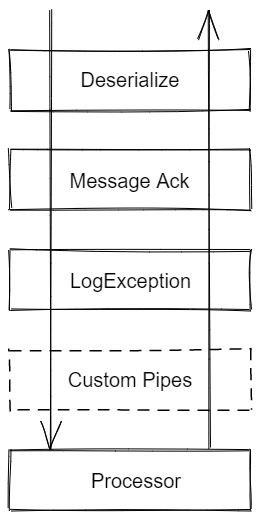
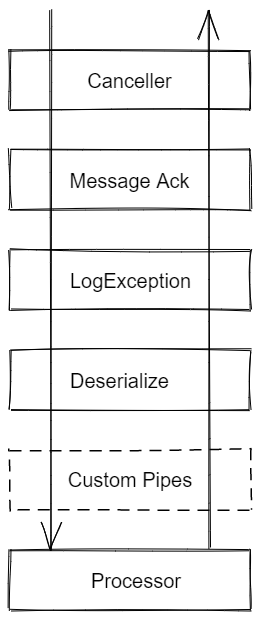
refactor: Rework consumer pipeline for better error handling and avoid it stuck the consumer when deserialization fail

diff --git a/Socolin.RabbitMQ.Client/Options/Consumer/ConsumerOptions.cs b/Socolin.RabbitMQ.Client/Options/Consumer/ConsumerOptions.cs
@@ -22,14 +22,14 @@ namespace Socolin.RabbitMQ.Client.Options.Consumer
 		{
 			var pipeline = new List<IConsumerPipe<T>>
 			{
-				new CancellerConsumerPipe<T>(),
-				new DeserializerConsumerPipe<T>(Deserialization)
+				new CancellerConsumerPipe<T>()
 			};
 
 			if (MessageAcknowledgmentPipeBuilder != null)
 				pipeline.Add(MessageAcknowledgmentPipeBuilder.Build());
 			if (LogDelegate != null)
 				pipeline.Add(new LogExceptionConsumerPipe<T>(LogDelegate));
+			pipeline.Add(new DeserializerConsumerPipe<T>(Deserialization));
 
 			pipeline.AddRange(Customs.Select(builder => builder.Build()));
 			pipeline.Add(new MessageProcessorPipe<T>());

diff --git a/README.md b/README.md
@@ -140,6 +140,10 @@ This pipe will execute the function `PipeContextAction.Action`
 
 ![Consumer Pipeline](./doc/images/consumer-pipeline.png)
 
+#### Canceller pipe
+
+This pipe is use internally for `IActiveConsumer.CancelAsync()` and `IActiveConsumer.CancelAfterCurrentTaskCompletedAsync()`
+
 #### Message Ack Pipe
 
 This pipe is responsible to acknowledge successfully processed messages, and handle failure (reject or retry logic).

diff --git a/CHANGELOG.md b/CHANGELOG.md
@@ -1,3 +1,7 @@
+1.7.1
+
+- Rework Consumer pipeline. Since deserialization can fail, it has been move after the _Log Exception Pipe_ and after the _Message Ack Pipe_, so it does not "lock" the consumer when deserializer fail.
+
 1.7
 
 - Follow [RabbitMQ recommendations](https://www.cloudamqp.com/blog/2018-01-19-part4-rabbitmq-13-common-errors.html) about connections 
